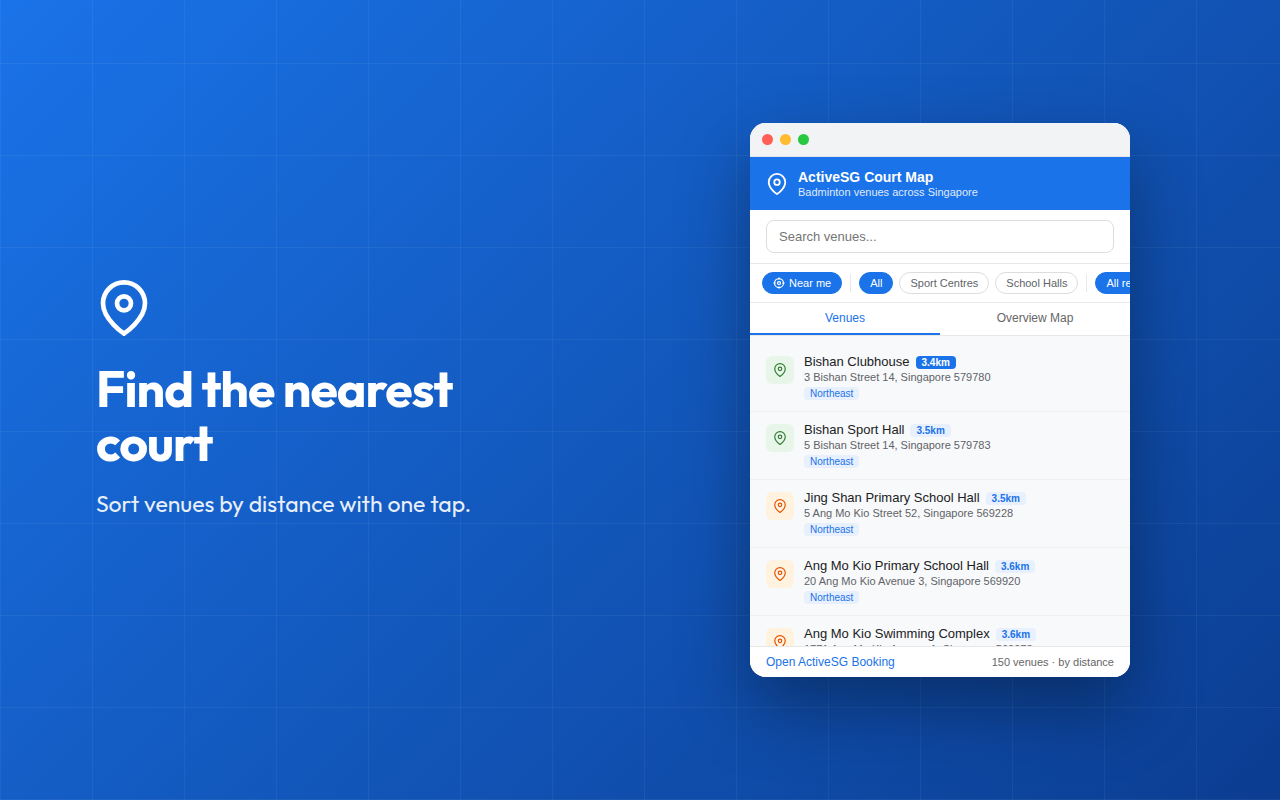
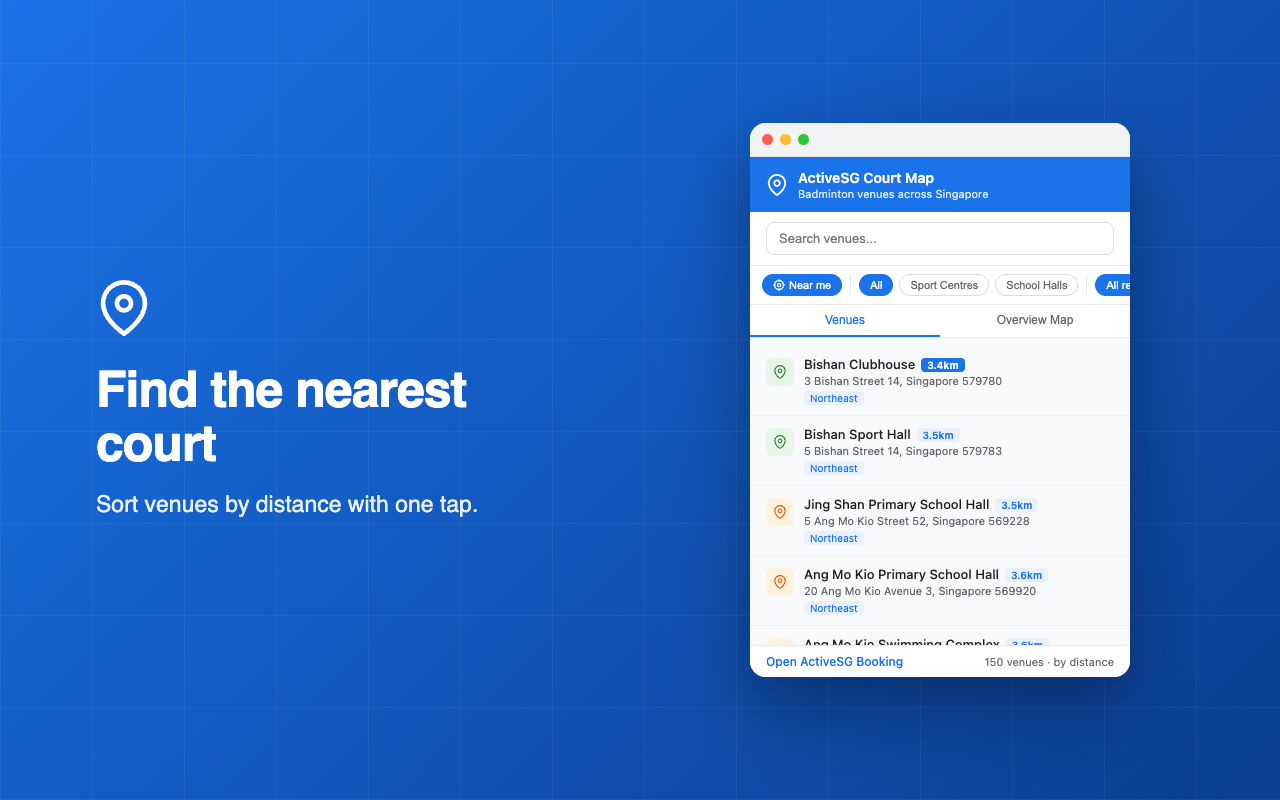
Regenerate store screenshots with live map tiles; fix sidebar popup clipping
The cloud-generated screenshots had blank grey maps because the build
environment could not reach tile.openstreetmap.org. Recaptured locally
with live tiles, and made the sidebar shot a scripted scenario in
gen-screenshots.js (venues injected via postMessage, geolocation mocked,
Nearest active) instead of a manual one-off.

Sidebar fixes that also showed up in the screenshot:
- Open marker popups only after the map movement settles, so Leaflet's
  auto-pan measures the final viewport instead of a mid-animation one
  (the popup used to clip at the top of the 240px map).
- Cap popup width at 220px so it fits the 350px sidebar.

Also: dynamic puppeteer import (recent versions are ESM-only), support
PUPPETEER_EXECUTABLE_PATH for system Chrome, ignore node_modules.

diff --git a/scripts/gen-screenshots.js b/scripts/gen-screenshots.js
@@ -4,8 +4,16 @@
 // composited on a branded background with a caption.
 //
 // Usage:
-//   npm i -D puppeteer && npx puppeteer browsers install chrome
+//   npm i --no-save puppeteer && npx puppeteer browsers install chrome
 //   node scripts/gen-screenshots.js
+//
+// Or reuse a system Chrome instead of downloading one:
+//   PUPPETEER_SKIP_DOWNLOAD=1 npm i --no-save puppeteer
+//   PUPPETEER_EXECUTABLE_PATH="/Applications/Google Chrome.app/Contents/MacOS/Google Chrome" \
+//     node scripts/gen-screenshots.js
+//
+// Requires network access to tile.openstreetmap.org — without it the map
+// screenshots render as blank grey panels.
 //
 // Set PROMO_FONT_DIR to a folder with Outfit-Bold.ttf / Outfit-Regular.ttf
 // for the branded caption font (falls back to the system sans otherwise).
@@ -13,11 +21,11 @@
 const fs = require("fs");
 const path = require("path");
 const os = require("os");
-const puppeteer = require("puppeteer");
 
 const ROOT = path.join(__dirname, "..");
 const OUT_DIR = path.join(ROOT, "docs", "images");
 const POPUP_URL = "file://" + path.join(ROOT, "popup.html");
+const SIDEBAR_URL = "file://" + path.join(ROOT, "sidebar.html");
 const FONT_DIR = process.env.PROMO_FONT_DIR || "";
 
 const W = 1280, H = 800;
@@ -33,7 +41,7 @@ function fontFace() {
     @font-face { font-family: Outfit; font-weight: 700; src: url('file://${bold}'); }`;
 }
 
-function wrapperHtml() {
+function wrapperHtml(appUrl, deviceW, deviceH) {
   return `<!DOCTYPE html><html><head><meta charset="utf-8"><style>
     ${fontFace()}
     * { margin: 0; box-sizing: border-box; }
@@ -54,12 +62,12 @@ function wrapperHtml() {
       margin-top: 18px; line-height: 1.4; }
     .pin { width: 56px; height: 56px; margin-bottom: 26px; }
     .stage { position: absolute; right: 150px; top: 50%; transform: translateY(-50%); }
-    .device { width: 380px; border-radius: 16px; overflow: hidden; background: #fff;
+    .device { width: ${deviceW}px; border-radius: 16px; overflow: hidden; background: #fff;
       box-shadow: 0 30px 70px rgba(0,0,0,.35); }
     .bar { height: 34px; background: #f1f3f4; display: flex; align-items: center;
       padding: 0 12px; gap: 7px; border-bottom: 1px solid #e2e4e7; }
     .bar i { width: 11px; height: 11px; border-radius: 50%; display: inline-block; }
-    iframe { width: 380px; height: 520px; border: 0; display: block; }
+    iframe { width: ${deviceW}px; height: ${deviceH}px; border: 0; display: block; }
   </style></head><body>
     <div class="caption">
       <svg class="pin" viewBox="0 0 24 24" fill="none" stroke="#fff" stroke-width="2">
@@ -71,7 +79,7 @@ function wrapperHtml() {
     <div class="stage">
       <div class="device">
         <div class="bar"><i style="background:#ff5f57"></i><i style="background:#febc2e"></i><i style="background:#28c840"></i></div>
-        <iframe id="popup" src="${POPUP_URL}"></iframe>
+        <iframe id="popup" src="${appUrl}"></iframe>
       </div>
     </div>
   </body></html>`;
@@ -121,20 +129,53 @@ const SCENARIOS = [
       await new Promise((r) => setTimeout(r, 2800)); // let OSM tiles load
     },
   },
+  {
+    name: "screenshot-5-sidebar.png",
+    hl: "A map sidebar on every booking page",
+    sub: "See where each court on the page is — and sort by distance.",
+    url: SIDEBAR_URL,
+    ready: ".leaflet-container",
+    device: { w: 350, h: 600 },
+    setup: async (frame) => {
+      // The sidebar normally gets its venues from the content script via
+      // postMessage; feed it the same payload with the expected origin.
+      await frame.evaluate(() => {
+        navigator.geolocation.getCurrentPosition = (ok) =>
+          ok({ coords: { latitude: 1.3521, longitude: 103.8198 } });
+        const venues = [
+          "Bishan Sport Hall", "Toa Payoh Sport Hall", "Delta Sport Hall",
+          "Kallang Sport Hall", "Clementi Sport Hall", "Hougang Sport Hall",
+          "Queenstown Sport Hall", "Jurong East Sport Hall",
+        ].map((name) => ({ name, onPage: true }));
+        window.dispatchEvent(new MessageEvent("message", {
+          origin: "https://activesg.gov.sg",
+          data: { type: "asg-venues", venues },
+        }));
+      });
+      await frame.waitForSelector(".venue-item");
+      await frame.evaluate(() => document.getElementById("nearest-btn").click());
+      await new Promise((r) => setTimeout(r, 3200)); // re-sort + OSM tiles
+    },
+  },
 ];
 
 const sleep = (ms) => new Promise((r) => setTimeout(r, ms));
 
 async function main() {
-  const wrapperPath = path.join(os.tmpdir(), "asg-wrapper.html");
-  fs.writeFileSync(wrapperPath, wrapperHtml());
-
+  // Dynamic import: recent puppeteer versions are ESM-only.
+  const puppeteer = await import("puppeteer").then((m) => m.default ?? m);
   const browser = await puppeteer.launch({
+    executablePath: process.env.PUPPETEER_EXECUTABLE_PATH || undefined,
     args: ["--no-sandbox", "--disable-setuid-sandbox"],
     defaultViewport: { width: W, height: H, deviceScaleFactor: 1 },
   });
 
   for (const sc of SCENARIOS) {
+    const appUrl = sc.url || POPUP_URL;
+    const device = sc.device || { w: 380, h: 520 };
+    const wrapperPath = path.join(os.tmpdir(), "asg-wrapper.html");
+    fs.writeFileSync(wrapperPath, wrapperHtml(appUrl, device.w, device.h));
+
     const page = await browser.newPage();
     await page.setViewport({ width: W, height: H, deviceScaleFactor: 1 });
     await page.goto("file://" + wrapperPath, { waitUntil: "networkidle2" });
@@ -149,8 +190,8 @@ async function main() {
 
     const frame = page
       .frames()
-      .find((f) => f.url().startsWith(POPUP_URL.split("#")[0]));
-    await frame.waitForSelector("#filters .chip");
+      .find((f) => f.url().startsWith(appUrl.split("#")[0]));
+    await frame.waitForSelector(sc.ready || "#filters .chip");
     await sleep(400);
     await sc.setup(frame);
     await sleep(900);

diff --git a/sidebar.js b/sidebar.js
@@ -131,6 +131,18 @@ document.addEventListener("DOMContentLoaded", () => {
     }
   }
 
+  // Open a marker's popup only after the current map movement settles, so
+  // Leaflet's auto-pan measures the final viewport instead of a
+  // mid-animation one (which leaves the popup clipped at the map edge).
+  function openPopupWhenSettled(marker) {
+    const open = () => marker.openPopup();
+    map.once("moveend", open);
+    setTimeout(() => {
+      map.off("moveend", open);
+      if (!marker.isPopupOpen()) marker.openPopup();
+    }, 700);
+  }
+
   function focusNearestMarker(marker) {
     const focusMarkers = userMarker ? [marker, userMarker] : [marker];
     if (focusMarkers.length > 1) {
@@ -140,7 +152,7 @@ document.addEventListener("DOMContentLoaded", () => {
     } else {
       map.setView(marker.getLatLng(), 15);
     }
-    marker.openPopup();
+    openPopupWhenSettled(marker);
   }
 
   async function renderVenues(venues, filter) {
@@ -209,7 +221,8 @@ document.addEventListener("DOMContentLoaded", () => {
           .bindPopup(
             `<strong>${venueName}</strong><br>` +
               `<span style="font-size:11px;color:#666">${displayName}</span><br>` +
-              `<a href="${googleMapsSearchUrl(venue.name)}" target="_blank" rel="noopener noreferrer" style="font-size:11px">Google Maps &rarr;</a>`
+              `<a href="${googleMapsSearchUrl(venue.name)}" target="_blank" rel="noopener noreferrer" style="font-size:11px">Google Maps &rarr;</a>`,
+            { maxWidth: 220, autoPanPadding: L.point(12, 12) }
           )
           .addTo(map);
         markers.push(marker);
@@ -229,7 +242,7 @@ document.addEventListener("DOMContentLoaded", () => {
         item.addEventListener("click", (e) => {
           if (e.target.tagName === "A") return;
           map.setView([result.lat, result.lng], 16);
-          marker.openPopup();
+          openPopupWhenSettled(marker);
           if (activeItem) activeItem.classList.remove("active");
           item.classList.add("active");
           activeItem = item;

diff --git a/docs/STORE_LISTING.md b/docs/STORE_LISTING.md
@@ -64,13 +64,14 @@ Chrome Web Store requirements — the current `docs/images/*.png` are 380×520
   - `docs/images/screenshot-3-nearest.png` — "Near me" with distance badges.
   - `docs/images/screenshot-4-map.png` — overview map with markers.
   - `docs/images/screenshot-5-sidebar.png` — the Court Map sidebar (map, venue
-    list, distance sorting). Rendered from the real sidebar UI.
+    list, "Nearest" distance sorting). Rendered from the real sidebar UI with
+    live OpenStreetMap tiles.
 
-### Capturing an authentic sidebar shot on the live site
+### Optional: capturing the sidebar in context on the live site
 
-`screenshot-5-sidebar.png` shows the genuine sidebar component, but rendered
-locally (the build environment cannot reach `activesg.gov.sg`). For the most
-convincing listing, recapture it in context on your own machine:
+`screenshot-5-sidebar.png` is generated from the genuine sidebar component,
+but standalone rather than docked over a real booking page. If you want an
+in-context shot instead, capture it on your own machine:
 
 1. Load the unpacked extension at `chrome://extensions` (Developer mode → Load unpacked).
 2. Open a booking page, e.g. an activity's **venues** list.
